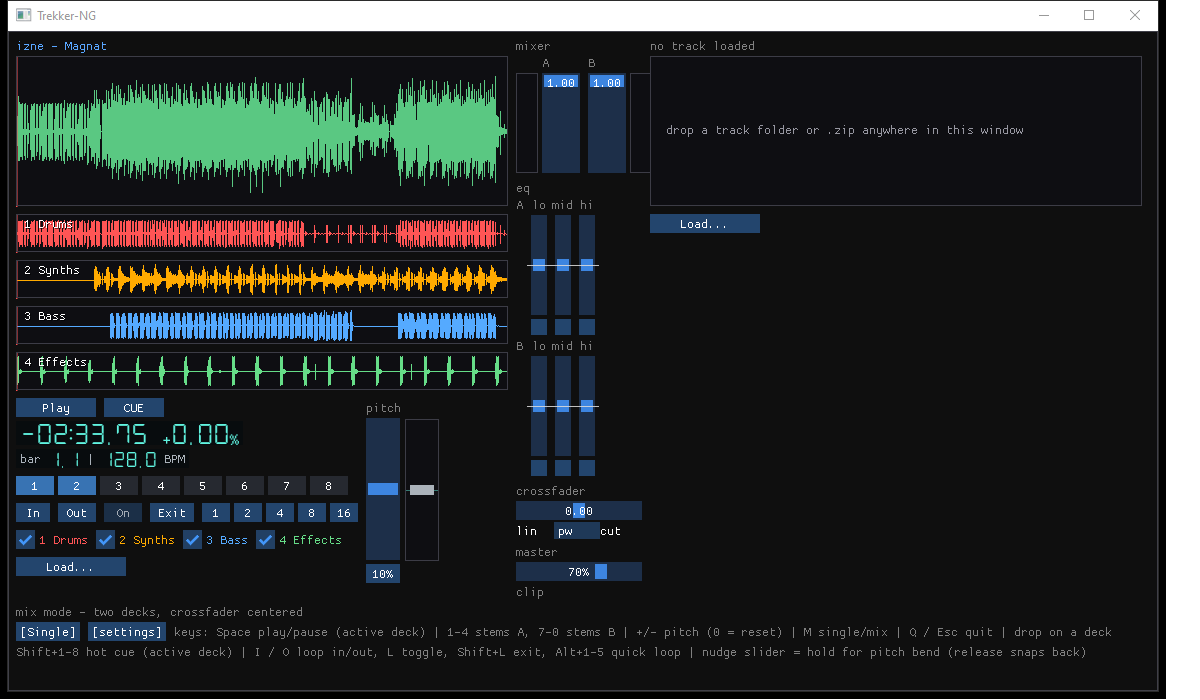
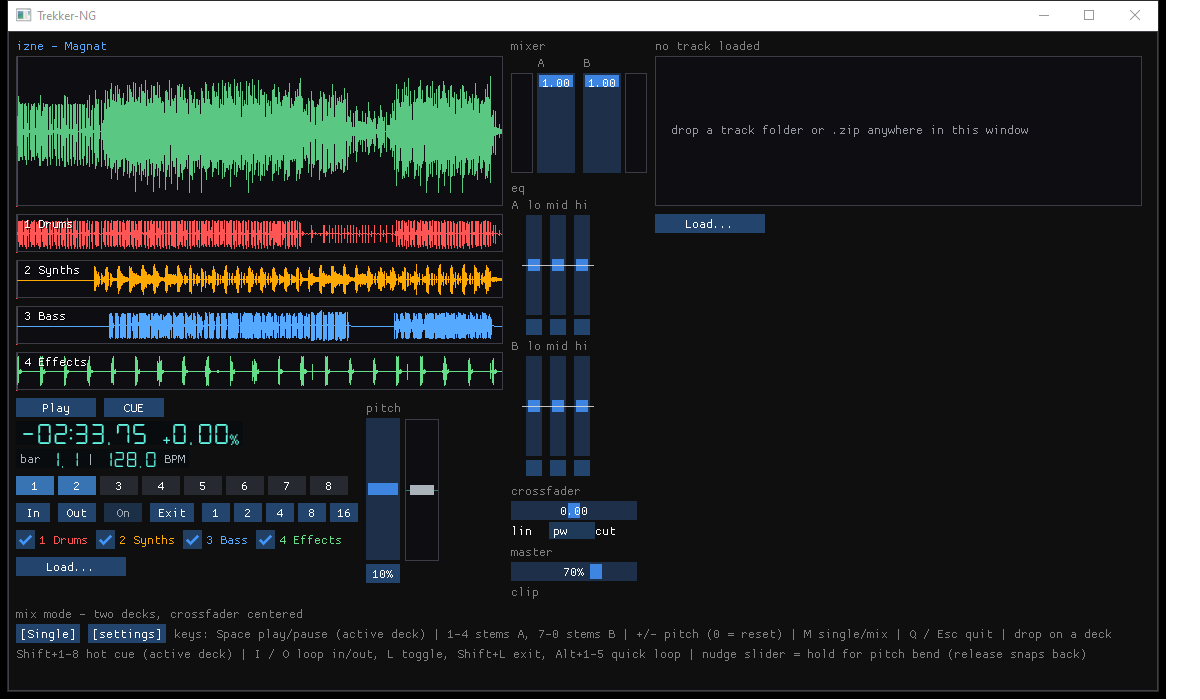
M5g: strip nudge/quick-loop tooltips, hot cue = countdown only, symmetric VU padding
Round 2 after user testing:

- deck_view: the nudge tooltip (supersedes the round-1 reword) and both
  quick-loop branches (Alt+N hint and the BPM hint) are gone;
  In/Out/On/Exit never had one. A hot-cue button now shows only its cue's
  remaining time in the VFD countdown format (-02:33.75, same formatTime
  as the readout row, clamped at 0); an empty slot shows nothing.
  Pitch-range/Load/EQ/crossfader-curve tooltips stay.

- mixer geometry: the group's width came from its widest cursor row
  (crossfader = kMixerWidth - 24 = 126 px) while VU B is custom-drawn to
  the full meter/fader block (136 px), so deck B crowded VU B (right gap
  ~0 px, deck B's border on VU B's frame, vs deck A's 8 px). A Dummy
  before EndGroup reserves the rest of the block, and panelW reserves
  kMixerWidth + 10 so both decks give up 5 px while the row still fits -
  deck B's right margin and the slider widths stay put. Pixel-verified:
  both gaps 8 px background / 10 px border-to-border, deck B box right
  border still at 1141, fader gap still 4 px.

- docs: SPEC (tooltip rule extended, hot-cue hover, equal-padding note),
  README status + window bullets, DECISIONS M5g round 2; mix screenshot
  recaptured, single shot came out byte-identical.

46 cases / 11620 assertions green.

diff --git a/src/ui/deck_view.cpp b/src/ui/deck_view.cpp
@@ -423,16 +423,16 @@ const char* DeckView::draw(tng::Deck& deck, bool active, bool showVU) {
                     deck.clearHotCue(s);
                     persistCues(deck, "hot cue cleared");
                 }
-                if (ImGui::IsItemHovered()) {
-                    if (filled) {
-                        char tt[96];
-                        std::snprintf(tt, sizeof(tt),
-                                      "hot cue %d at %.2f s - click to jump, right-click to clear",
-                                      s + 1, cues[static_cast<size_t>(s)].positionMs / 1000.0);
-                        ImGui::SetTooltip("%s", tt);
-                    } else {
-                        ImGui::SetTooltip("hot cue %d empty - click to set at the playhead", s + 1);
-                    }
+                // M5g round 2: the tooltip is only the cue's remaining time
+                // in the VFD countdown format; empty slots show nothing
+                // (the click/right-click behavior lives in USAGE).
+                if (filled && ImGui::IsItemHovered()) {
+                    const double cueSec = cues[static_cast<size_t>(s)].positionMs / 1000.0;
+                    const double totalSec = static_cast<double>(data->frames) / fs2;
+                    char rem[24], tt[32];
+                    formatTime(totalSec - cueSec, rem, sizeof(rem));
+                    std::snprintf(tt, sizeof(tt), "-%s", rem);
+                    ImGui::SetTooltip("%s", tt);
                 }
                 ImGui::PopStyleColor(3);
                 ImGui::PopID();
@@ -483,14 +483,8 @@ const char* DeckView::draw(tng::Deck& deck, bool active, bool showVU) {
                     noticeErr_ = true;
                 }
                 if (!hasBpm) ImGui::EndDisabled();
-                if (ImGui::IsItemHovered(ImGuiHoveredFlags_AllowWhenDisabled)) {
-                    if (hasBpm) {
-                        ImGui::SetTooltip("%d-beat loop from the playhead (Alt+%d)",
-                                          kQuick[q], q + 1);
-                    } else {
-                        ImGui::SetTooltip("quick loops need a BPM in meta.json");
-                    }
-                }
+                // M5g round 2: no tooltip - USAGE documents Alt+N and the
+                // BPM requirement.
                 ImGui::PopID();
                 if (q != 4) ImGui::SameLine(0.0f, 4.0f); // M5e: Mix-mode fit
             }
@@ -598,7 +592,8 @@ const char* DeckView::draw(tng::Deck& deck, bool active, bool showVU) {
         // manually, it never trails the mouse.
         // No label row (M5e plan: right column = pitch label + sliders)
         // - a "nudge" caption would widen the group past what the
-        // Mix-mode deck child can hold; the tooltip teaches it instead.
+        // Mix-mode deck child can hold; the docs teach it instead (M5g
+        // round 2 even dropped the tooltip).
         ImGui::SameLine(0.0f, 4.0f);
         ImGui::BeginGroup();
         ImGui::Dummy(ImVec2(1.0f, labelRow)); // reserve the label row, align tops
@@ -629,11 +624,6 @@ const char* DeckView::draw(tng::Deck& deck, bool active, bool showVU) {
                      IM_COL32(60, 60, 70, 255));
         ImGui::Dummy(nsize);
         const bool nHover = ImGui::IsItemHovered();
-        if (nHover) {
-            ImGui::SetTooltip(
-                "nudge: click above/below center and hold = bend the current "
-                "pitch by that offset, release snaps back");
-        }
         if (nHover && !nudging_ && ImGui::IsMouseClicked(ImGuiMouseButton_Left)) {
             nudging_ = true;
             nudgeBase_ = pitchPct_; // the pitch playing at the moment of press

diff --git a/src/ui/main.cpp b/src/ui/main.cpp
@@ -546,7 +546,15 @@ int main(int argc, char** argv) {
             const float availW = ImGui::GetContentRegionAvail().x;
             const float availH =
                 std::max(240.0f, ImGui::GetContentRegionAvail().y - kStatusReserve);
-            const float panelW = std::max(240.0f, (availW - kMixerWidth) * 0.5f);
+            // M5g round 2: the meter/fader block (VU+fader+gap+fader+VU =
+            // 136 px) is 10 px wider than the mixer's cursor rows
+            // (crossfader/master = kMixerWidth - 24), so the row really
+            // spans 8 + 136 + 8 = 152 px plus the old 8 px trailing slack:
+            // reserve kMixerWidth + 10. Both decks give up 5 px (their
+            // outer edges - deck B's right margin especially - stay put)
+            // and the inner padding stays symmetric.
+            const float panelW =
+                std::max(240.0f, (availW - kMixerWidth - 10.0f) * 0.5f);
             const ImGuiWindowFlags childFlags =
                 ImGuiWindowFlags_NoScrollbar | ImGuiWindowFlags_NoScrollWithMouse;
 
@@ -757,6 +765,18 @@ int main(int argc, char** argv) {
             } else {
                 ImGui::TextDisabled("clip");
             }
+            // M5g round 2: VU B is custom-drawn out to the full meter/fader
+            // block width (136 px) but the cursor rows above stop short
+            // (crossfader = kMixerWidth - 24), so the group used to end
+            // early and deck B crowded VU B (right gap ~0 px vs deck A's
+            // 8). Reserve the block width here so deck B lands exactly one
+            // SameLine gap away - the same padding deck A has on the other
+            // side.
+            const float kBlockW =
+                2.0f * kVuW + 2.0f * vuGap + 2.0f * kLineSliderW + abGap;
+            const float blockNeed =
+                (abTop.x + kBlockW) - ImGui::GetCursorScreenPos().x;
+            if (blockNeed > 0.0f) ImGui::Dummy(ImVec2(blockNeed, 1.0f));
             ImGui::EndGroup();
 
             ImGui::SameLine();

diff --git a/SPEC.md b/SPEC.md
@@ -152,14 +152,17 @@ mytrack/
 - **Two modes:** Single (one deck, full width) is the boot default; `M` toggles
   Mix (two deck panels side by side, mixer column between them: A/B line
   faders flanked by the per-deck VU meters (M5g, each deck's meter beside its
-  own fader), EQ, crossfader, master). M5c: the last used mode is persisted
+  own fader, with the same padding to its deck panel on both sides), EQ,
+  crossfader, master). M5c: the last used mode is persisted
   and restored at the next boot
   (the settings screen also has a "start in Mix mode" checkbox for it).
   v1 is exactly 2 decks.
 - In Mix mode the **active deck** is the panel under the mouse (highlighted
   title); the global transport/pitch/cue keys target it.
 - Per deck: track title, 4 stem toggle buttons (colored, lit when on),
-  play/pause, CUE (set / hold-to-preview / return, §4.5), 8 hot cue buttons,
+  play/pause, CUE (set / hold-to-preview / return, §4.5), 8 hot cue buttons
+  (M5g: hover shows only the cue's remaining time in the countdown format,
+  empty slots nothing),
   loop controls (In/Out/On/Exit + 1/2/4/8/16-beat quick loops), vertical pitch
   fader with a range toggle (v1: ±10 / ±16 %) and a persisted direction
   (§4.3, M5c); M5e stacks the deck's bottom panel as a left column (transport,
@@ -191,10 +194,13 @@ mytrack/
   the fullscreen flag persist in the same `trekker-ng.json` and restore at
   boot; `F11` toggles borderless fullscreen. The size is written at exit
   and on toggle only - maximized/fullscreen sizes never overwrite the
-  windowed restore dimensions. Tooltips teach state, never click actions
-  (M5f/M5g): right-click resets are documented instead - EQ sliders reset to
-  flat (M5a), the crossfader centers (M5f) - and the EQ kill buttons carry no
-  tooltip at all (M5g; the band slider already names band and dB).
+  windowed restore dimensions. Tooltips teach state, never click actions,
+  and only where they inform (M5f/M5g): right-click resets are documented
+  instead - EQ sliders reset to flat (M5a), the crossfader centers (M5f) -
+  while the EQ kill buttons, the nudge slider and the quick-loop buttons
+  carry no tooltip at all (M5g; the band slider already names band and dB)
+  and a hot-cue button shows only its cue's remaining time in the
+  countdown format (M5g; an empty slot shows nothing).
 - **Waveform:** overview (summed stems plus per-stem lanes) with a playhead;
   pre-computed min/max peaks on load, click-to-seek. A stretch goal is a
   zoomed scrolling waveform.

diff --git a/README.md b/README.md
@@ -33,9 +33,10 @@ bend and snaps back to center, right-click centers the crossfader,
 tooltips no longer describe click resets, and window size + F11
 fullscreen are persisted, default width 1150 px so the VU meters fit);
 M5g is the layout pass (the Mix-mode VU meters move into the mixer column
-beside their own A/B faders, the deck right column keeps pitch + nudge
-only, the nudge bend becomes an offset of the current pitch, and the EQ
-kill buttons lose their tooltips). The project is governed by
+beside their own A/B faders with equal padding to both deck panels, the
+deck right column keeps pitch + nudge only, the nudge bend becomes an
+offset of the current pitch, the kill/nudge/quick-loop tooltips are gone,
+and a hot-cue button hovers to only its countdown time). The project is governed by
 [`SPEC.md`](SPEC.md).
 
 ![Trekker-NG settings window over the single-deck view](docs/ui-m5e-settings.png)
@@ -113,8 +114,9 @@ kill buttons lose their tooltips). The project is governed by
   VU meters are never clipped); resize the window and the size is restored
   at the next boot, `F11` toggles borderless fullscreen and that flag is
   persisted too. Tooltips only teach state - the right-click resets
-  (EQ to flat, crossfader to center) are documented here instead, and the
-  EQ kill buttons have no tooltip at all (M5g).
+  (EQ to flat, crossfader to center) are documented here instead; the
+  kill, nudge and quick-loop buttons carry no tooltip at all, and a hot
+  cue hovers to only its remaining time (M5g).
 - **Mix mode (M4c)** - `M` toggles Single / Mix: Mix shows
   deck A and deck B side by side with a mixer column (A/B line faders
   flanked by the per-deck VU meters - M5g, each deck's meter beside its own
